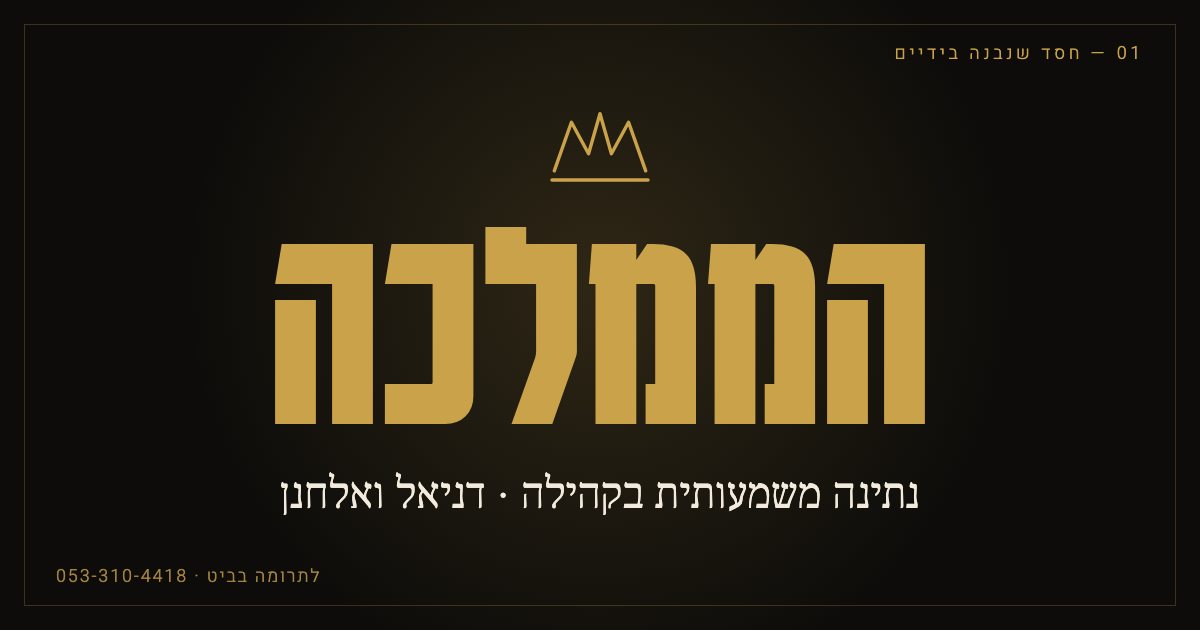
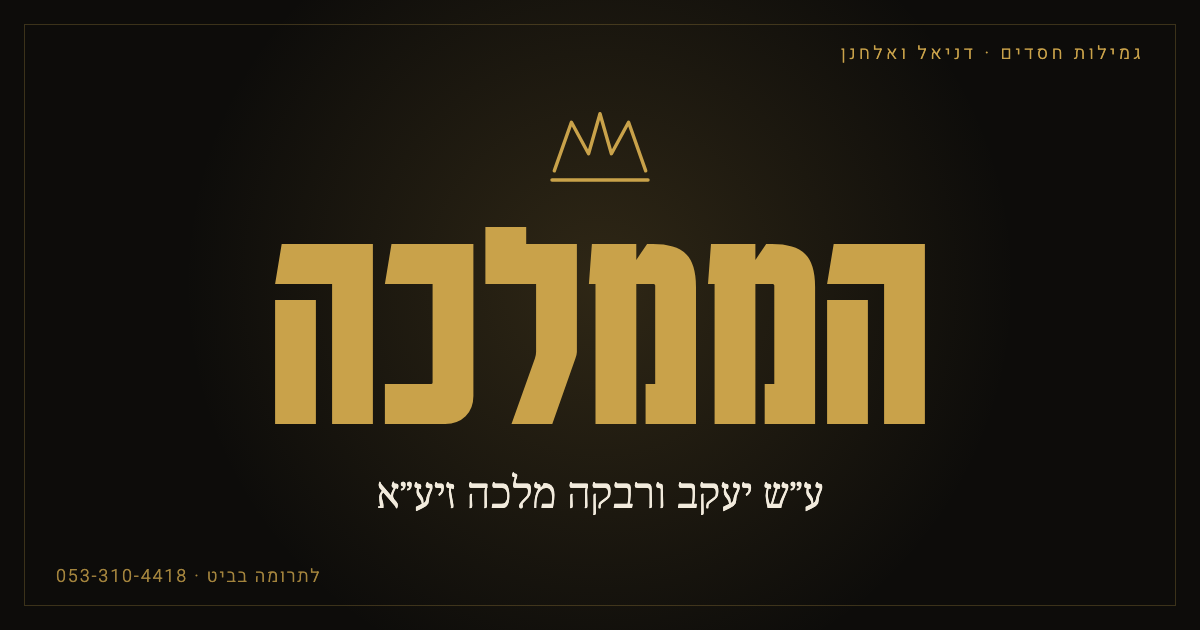
Security hardening: SRI, CSP, referrer policy, noopener; OG image dedication

Changed region(s): [[0.2158, 0.754, 0.7708, 0.8143], [0.7092, 0.0603, 0.9558, 0.0905]]

diff --git a/index.html b/index.html
@@ -3,6 +3,8 @@
 <head>
   <meta charset="UTF-8">
   <meta name="viewport" content="width=device-width, initial-scale=1.0">
+  <meta http-equiv="Content-Security-Policy" content="default-src 'self'; script-src 'self' https://cdnjs.cloudflare.com https://cdn.jsdelivr.net; style-src 'self' 'unsafe-inline' https://fonts.googleapis.com; font-src https://fonts.gstatic.com; img-src 'self' data:; connect-src 'self'; object-src 'none'; base-uri 'self'; form-action 'none'; upgrade-insecure-requests">
+  <meta name="referrer" content="strict-origin-when-cross-origin">
   <title>הממלכה — נתינה משמעותית</title>
   <meta name="description" content="הממלכה — עמותה לגמילות חסדים, ע״ש יעקב ורבקה מלכה זיע״א. נוסדה על ידי האחים דניאל ואלחנן, יזמים המקדמים נתינה משמעותית בקהילה.">
   <meta property="og:title" content="הממלכה — גמילות חסדים">
@@ -298,9 +300,9 @@
   <!-- ============================================
        SCRIPTS — deferred, pinned CDN versions
        ============================================ -->
-  <script src="https://cdnjs.cloudflare.com/ajax/libs/gsap/3.12.5/gsap.min.js" defer></script>
-  <script src="https://cdnjs.cloudflare.com/ajax/libs/gsap/3.12.5/ScrollTrigger.min.js" defer></script>
-  <script src="https://cdn.jsdelivr.net/npm/lenis@1.1.13/dist/lenis.min.js" defer></script>
+  <script src="https://cdnjs.cloudflare.com/ajax/libs/gsap/3.12.5/gsap.min.js" integrity="sha384-g4NTh/Iv5PPU4xPyhEWqPcwtNXOvdaDI8LLnyYfyNZOjKJeYQyjzQ9X5275eBjpt" crossorigin="anonymous" referrerpolicy="no-referrer" defer></script>
+  <script src="https://cdnjs.cloudflare.com/ajax/libs/gsap/3.12.5/ScrollTrigger.min.js" integrity="sha384-Z3REaz79l2IaAZqJsSABtTbhjgOUYyV3p90XNnAPCSHg3EMTz1fouunq9WZRtj3d" crossorigin="anonymous" referrerpolicy="no-referrer" defer></script>
+  <script src="https://cdn.jsdelivr.net/npm/lenis@1.1.13/dist/lenis.min.js" integrity="sha384-B2WBjDzEjJpYvhmi2UyEn7rektqkf5suS6sNoyyrf0EBAwBHdkiXxIlU0V5Ru2ed" crossorigin="anonymous" referrerpolicy="no-referrer" defer></script>
   <script src="assets/main.js" defer></script>
 
 </body>

diff --git a/assets/main.js b/assets/main.js
@@ -723,7 +723,7 @@ async function handleDonate() {
     if (/iPhone|iPad|iPod|Android/i.test(navigator.userAgent)) {
       window.location.href = url;
     } else {
-      window.open(url, '_blank');
+      window.open(url, '_blank', 'noopener,noreferrer');
     }
   }, 900);
 }
